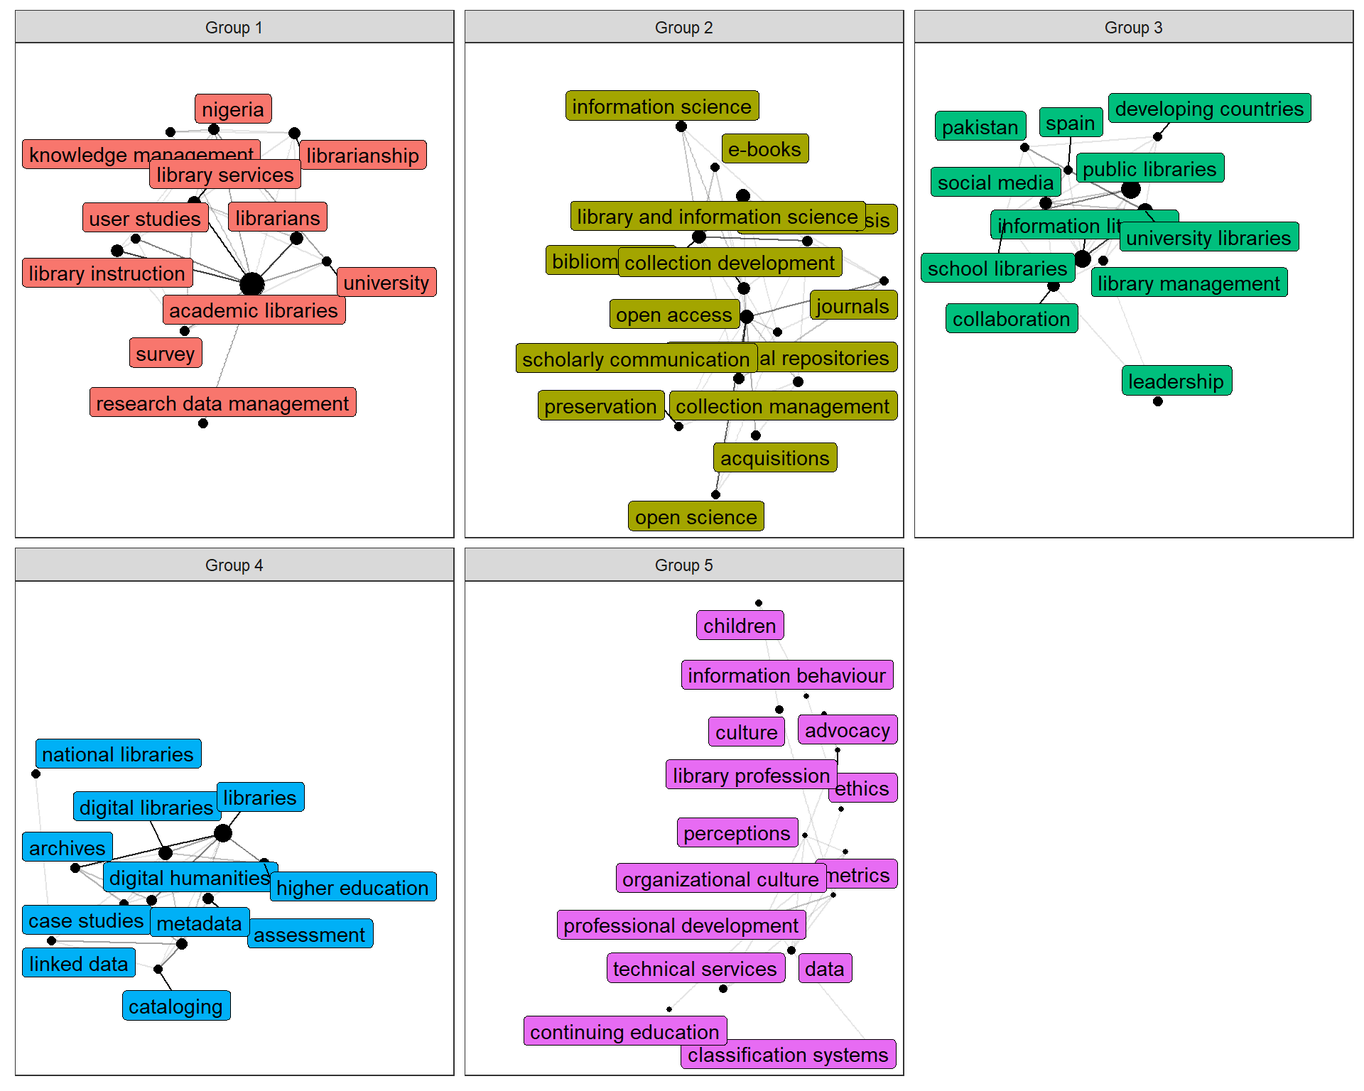
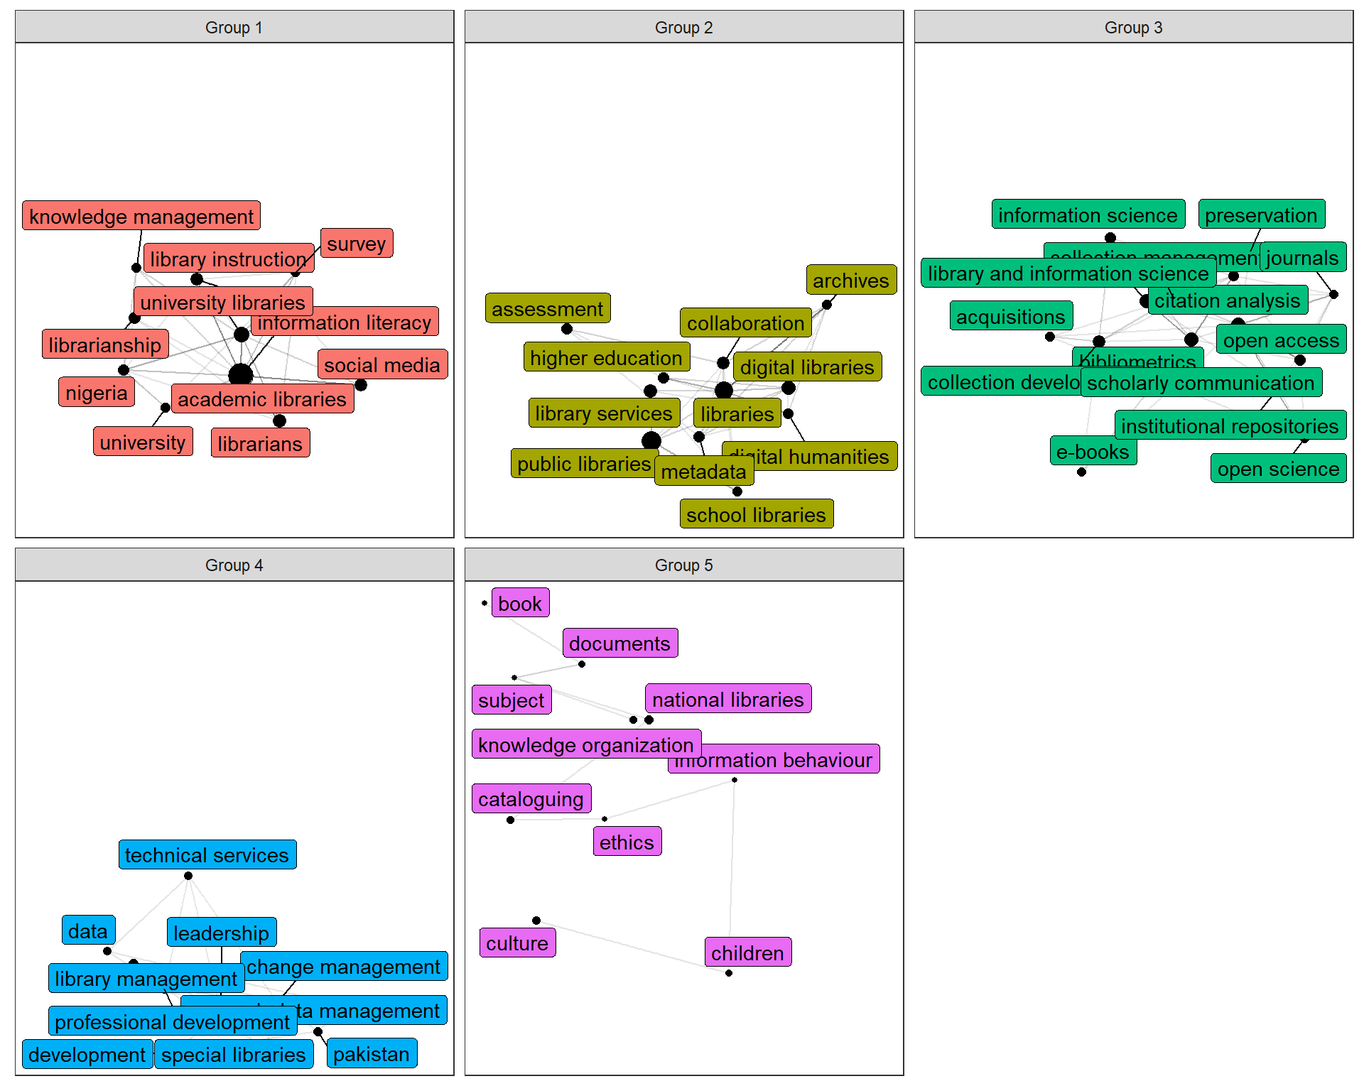
Add files via upload

Changed region(s): [[0.0, 0.0625, 1.0, 0.5], [0.3438, 0.5312, 0.6562, 1.0], [0.0, 0.6562, 0.3438, 1.0]]

diff --git a/docs/articles/akc_vignette.html b/docs/articles/akc_vignette.html
@@ -38,7 +38,7 @@
       </button>
       <span class="navbar-brand">
         <a class="navbar-link" href="../index.html">akc</a>
-        <span class="version label label-default" data-toggle="tooltip" data-placement="bottom" title="Released version">0.9.1</span>
+        <span class="version label label-default" data-toggle="tooltip" data-placement="bottom" title="Released version">0.9.2</span>
       </span>
     </div>
 
@@ -199,7 +199,7 @@ Logo of akc package.
 <a class="sourceLine" id="cb3-2" title="2"><span class="st">  </span><span class="kw"><a href="../reference/keyword_merge.html">keyword_merge</a></span>() -&gt;<span class="st"> </span>merged_data</a>
 <a class="sourceLine" id="cb3-3" title="3"></a>
 <a class="sourceLine" id="cb3-4" title="4">merged_data</a>
-<a class="sourceLine" id="cb3-5" title="5"><span class="co">#&gt; # A tibble: 5,378 x 2</span></a>
+<a class="sourceLine" id="cb3-5" title="5"><span class="co">#&gt; # A tibble: 5,372 x 2</span></a>
 <a class="sourceLine" id="cb3-6" title="6"><span class="co">#&gt;       id keyword                      </span></a>
 <a class="sourceLine" id="cb3-7" title="7"><span class="co">#&gt;    &lt;int&gt; &lt;chr&gt;                        </span></a>
 <a class="sourceLine" id="cb3-8" title="8"><span class="co">#&gt;  1  1163 10.7202/1063788ar            </span></a>
@@ -212,7 +212,7 @@ Logo of akc package.
 <a class="sourceLine" id="cb3-15" title="15"><span class="co">#&gt;  8    42 21st-century skills          </span></a>
 <a class="sourceLine" id="cb3-16" title="16"><span class="co">#&gt;  9  1114 21st century skills          </span></a>
 <a class="sourceLine" id="cb3-17" title="17"><span class="co">#&gt; 10  1051 24-hour opening              </span></a>
-<a class="sourceLine" id="cb3-18" title="18"><span class="co">#&gt; # … with 5,368 more rows</span></a></code></pre></div>
+<a class="sourceLine" id="cb3-18" title="18"><span class="co">#&gt; # … with 5,362 more rows</span></a></code></pre></div>
 </div>
 <div id="keyword-grouping" class="section level3">
 <h3 class="hasAnchor">
@@ -222,28 +222,28 @@ Logo of akc package.
 <a class="sourceLine" id="cb4-2" title="2"><span class="st">  </span><span class="kw"><a href="../reference/keyword_group.html">keyword_group</a></span>() -&gt;<span class="st"> </span>grouped_data</a>
 <a class="sourceLine" id="cb4-3" title="3"></a>
 <a class="sourceLine" id="cb4-4" title="4">grouped_data</a>
-<a class="sourceLine" id="cb4-5" title="5"><span class="co">#&gt; # A tbl_graph: 208 nodes and 1341 edges</span></a>
+<a class="sourceLine" id="cb4-5" title="5"><span class="co">#&gt; # A tbl_graph: 207 nodes and 1332 edges</span></a>
 <a class="sourceLine" id="cb4-6" title="6"><span class="co">#&gt; #</span></a>
 <a class="sourceLine" id="cb4-7" title="7"><span class="co">#&gt; # An undirected simple graph with 1 component</span></a>
 <a class="sourceLine" id="cb4-8" title="8"><span class="co">#&gt; #</span></a>
-<a class="sourceLine" id="cb4-9" title="9"><span class="co">#&gt; # Node Data: 208 x 3 (active)</span></a>
+<a class="sourceLine" id="cb4-9" title="9"><span class="co">#&gt; # Node Data: 207 x 3 (active)</span></a>
 <a class="sourceLine" id="cb4-10" title="10"><span class="co">#&gt;   name                     freq group</span></a>
 <a class="sourceLine" id="cb4-11" title="11"><span class="co">#&gt;   &lt;chr&gt;                   &lt;int&gt; &lt;int&gt;</span></a>
 <a class="sourceLine" id="cb4-12" title="12"><span class="co">#&gt; 1 academic librarians         7     1</span></a>
 <a class="sourceLine" id="cb4-13" title="13"><span class="co">#&gt; 2 academic libraries        145     1</span></a>
-<a class="sourceLine" id="cb4-14" title="14"><span class="co">#&gt; 3 acquisitions               12     2</span></a>
+<a class="sourceLine" id="cb4-14" title="14"><span class="co">#&gt; 3 acquisitions               12     3</span></a>
 <a class="sourceLine" id="cb4-15" title="15"><span class="co">#&gt; 4 africa                      6     1</span></a>
-<a class="sourceLine" id="cb4-16" title="16"><span class="co">#&gt; 5 altmetrics                  7     2</span></a>
+<a class="sourceLine" id="cb4-16" title="16"><span class="co">#&gt; 5 altmetrics                  7     3</span></a>
 <a class="sourceLine" id="cb4-17" title="17"><span class="co">#&gt; 6 artificial intelligence     4     1</span></a>
-<a class="sourceLine" id="cb4-18" title="18"><span class="co">#&gt; # … with 202 more rows</span></a>
+<a class="sourceLine" id="cb4-18" title="18"><span class="co">#&gt; # … with 201 more rows</span></a>
 <a class="sourceLine" id="cb4-19" title="19"><span class="co">#&gt; #</span></a>
-<a class="sourceLine" id="cb4-20" title="20"><span class="co">#&gt; # Edge Data: 1,341 x 3</span></a>
+<a class="sourceLine" id="cb4-20" title="20"><span class="co">#&gt; # Edge Data: 1,332 x 3</span></a>
 <a class="sourceLine" id="cb4-21" title="21"><span class="co">#&gt;    from    to     n</span></a>
 <a class="sourceLine" id="cb4-22" title="22"><span class="co">#&gt;   &lt;int&gt; &lt;int&gt; &lt;dbl&gt;</span></a>
 <a class="sourceLine" id="cb4-23" title="23"><span class="co">#&gt; 1     1     2     4</span></a>
 <a class="sourceLine" id="cb4-24" title="24"><span class="co">#&gt; 2     2     3     2</span></a>
 <a class="sourceLine" id="cb4-25" title="25"><span class="co">#&gt; 3     2    48     1</span></a>
-<a class="sourceLine" id="cb4-26" title="26"><span class="co">#&gt; # … with 1,338 more rows</span></a></code></pre></div>
+<a class="sourceLine" id="cb4-26" title="26"><span class="co">#&gt; # … with 1,329 more rows</span></a></code></pre></div>
 </div>
 <div id="output-the-table-of-results" class="section level3">
 <h3 class="hasAnchor">
@@ -254,11 +254,11 @@ Logo of akc package.
 <a class="sourceLine" id="cb5-3" title="3"><span class="co">#&gt; # A tibble: 5 x 2</span></a>
 <a class="sourceLine" id="cb5-4" title="4"><span class="co">#&gt;   Group `Keywords(TOP 10)`                                                      </span></a>
 <a class="sourceLine" id="cb5-5" title="5"><span class="co">#&gt;   &lt;int&gt; &lt;chr&gt;                                                                   </span></a>
-<a class="sourceLine" id="cb5-6" title="6"><span class="co">#&gt; 1     1 academic libraries (145); library services (27); librarians (25); libra…</span></a>
-<a class="sourceLine" id="cb5-7" title="7"><span class="co">#&gt; 2     2 open access (32); bibliometrics (31); library and information science (…</span></a>
-<a class="sourceLine" id="cb5-8" title="8"><span class="co">#&gt; 3     3 public libraries (74); information literacy (58); university libraries …</span></a>
-<a class="sourceLine" id="cb5-9" title="9"><span class="co">#&gt; 4     4 libraries (66); digital libraries (31); higher education (16); assessme…</span></a>
-<a class="sourceLine" id="cb5-10" title="10"><span class="co">#&gt; 5     5 professional development (9); data (7); culture (7); technical services…</span></a></code></pre></div>
+<a class="sourceLine" id="cb5-6" title="6"><span class="co">#&gt; 1     1 academic libraries (145); information literacy (58); university librari…</span></a>
+<a class="sourceLine" id="cb5-7" title="7"><span class="co">#&gt; 2     2 public libraries (74); libraries (65); digital libraries (31); library …</span></a>
+<a class="sourceLine" id="cb5-8" title="8"><span class="co">#&gt; 3     3 open access (32); bibliometrics (31); library and information science (…</span></a>
+<a class="sourceLine" id="cb5-9" title="9"><span class="co">#&gt; 4     4 leadership (12); library management (12); research data management (12)…</span></a>
+<a class="sourceLine" id="cb5-10" title="10"><span class="co">#&gt; 5     5 national libraries (10); culture (7); cataloguing (6); knowledge organi…</span></a></code></pre></div>
 </div>
 <div id="visualize-the-results" class="section level3">
 <h3 class="hasAnchor">

diff --git a/docs/reference/keyword_merge.html b/docs/reference/keyword_merge.html
@@ -78,7 +78,7 @@ recieves a tidy table (data.frame) with document ID and keyword waiting to be me
       </button>
       <span class="navbar-brand">
         <a class="navbar-link" href="../index.html">akc</a>
-        <span class="version label label-default" data-toggle="tooltip" data-placement="bottom" title="Released version">0.9.1</span>
+        <span class="version label label-default" data-toggle="tooltip" data-placement="bottom" title="Released version">0.9.2</span>
       </span>
     </div>
 
@@ -155,8 +155,9 @@ recieves a tidy table (data.frame) with document ID and keyword waiting to be me
     </tr>
     <tr>
       <th>reduce_form</th>
-      <td><p>Should the merge terms have the same stem("stem") or lemma("lemma")?
-Default uses "lemma".</p></td>
+      <td><p>Merge keywords with the same stem("stem") or lemma("lemma"). See details.
+Default uses "lemma". Another advanced option is "partof". If a non-unigram (A) is part (subset) of
+another non-unigram (B), then the longer one(B) would be replaced by the longer one(A).</p></td>
     </tr>
     </table>
 
@@ -171,6 +172,14 @@ every keyword using <code>stem_strings</code> or <code>lemmatize_strings</code> 
 then find the most frequent form (if more than 1,randomly select one)
 for each stem or lemma. Last, every keyword
 would be replaced by the most frequent keyword which share the same stem or lemma with it.</p>
+<p>When the `reduce_form` is set to "partof", then for non-unigrams in the same document,
+if one non-unigram is the subset of another, then they would be merged into the shorter one,
+which is considered to be more general (e.g. "time series" and "time series analysis" would be
+merged into "time series" if they co-occur in the same document). This could reduce the redundant
+information. This is only applied to multi-word phrases, because using it for one word would
+oversimplify the token and cause information loss (therefore, "time series" and "time" would not be
+merged into "time"). This is an advanced option that should be used with caution (A trade-off between
+information generalization and detailed information retention).</p>
     <h2 class="hasAnchor" id="see-also"><a class="anchor" href="#see-also"></a>See also</h2>
 
     <div class='dont-index'><p><code><a href='https://rdrr.io/pkg/textstem/man/stem_strings.html'>stem_strings</a></code>, <code><a href='https://rdrr.io/pkg/textstem/man/lemmatize_strings.html'>lemmatize_strings</a></code></p></div>
@@ -181,7 +190,7 @@ would be replaced by the most frequent keyword which share the same stem or lemm
 <span class='co'># \donttest{</span>
 <span class='no'>bibli_data_table</span> <span class='kw'>%&gt;%</span>
   <span class='fu'><a href='keyword_clean.html'>keyword_clean</a></span>(<span class='kw'>lemmatize</span> <span class='kw'>=</span> <span class='fl'>FALSE</span>) <span class='kw'>%&gt;%</span>
-  <span class='fu'>keyword_merge</span>(<span class='kw'>reduce_form</span> <span class='kw'>=</span> <span class='st'>"stem"</span>)</div><div class='output co'>#&gt; <span style='color: #555555;'># A tibble: 5,378 x 2</span><span>
+  <span class='fu'>keyword_merge</span>(<span class='kw'>reduce_form</span> <span class='kw'>=</span> <span class='st'>"stem"</span>)</div><div class='output co'>#&gt; <span style='color: #555555;'># A tibble: 5,372 x 2</span><span>
 #&gt;       id keyword                      
 #&gt;    </span><span style='color: #555555;font-style: italic;'>&lt;int&gt;</span><span> </span><span style='color: #555555;font-style: italic;'>&lt;chr&gt;</span><span>                        
 #&gt; </span><span style='color: #555555;'> 1</span><span>  </span><span style='text-decoration: underline;'>1</span><span>163 10.7202/1063788ar            
@@ -194,10 +203,10 @@ would be replaced by the most frequent keyword which share the same stem or lemm
 #&gt; </span><span style='color: #555555;'> 8</span><span>  </span><span style='text-decoration: underline;'>1</span><span>051 24-hour opening              
 #&gt; </span><span style='color: #555555;'> 9</span><span>   662 3d environment               
 #&gt; </span><span style='color: #555555;'>10</span><span>  </span><span style='text-decoration: underline;'>1</span><span>252 3d reconstruction            
-#&gt; </span><span style='color: #555555;'># … with 5,368 more rows</span><span></div><div class='input'>
+#&gt; </span><span style='color: #555555;'># … with 5,362 more rows</span><span></div><div class='input'>
 <span class='no'>bibli_data_table</span> <span class='kw'>%&gt;%</span>
   <span class='fu'><a href='keyword_clean.html'>keyword_clean</a></span>(<span class='kw'>lemmatize</span> <span class='kw'>=</span> <span class='fl'>FALSE</span>) <span class='kw'>%&gt;%</span>
-  <span class='fu'>keyword_merge</span>(<span class='kw'>reduce_form</span> <span class='kw'>=</span> <span class='st'>"lemma"</span>)</div><div class='output co'>#&gt; </span><span style='color: #555555;'># A tibble: 5,378 x 2</span><span>
+  <span class='fu'>keyword_merge</span>(<span class='kw'>reduce_form</span> <span class='kw'>=</span> <span class='st'>"lemma"</span>)</div><div class='output co'>#&gt; </span><span style='color: #555555;'># A tibble: 5,372 x 2</span><span>
 #&gt;       id keyword                      
 #&gt;    </span><span style='color: #555555;font-style: italic;'>&lt;int&gt;</span><span> </span><span style='color: #555555;font-style: italic;'>&lt;chr&gt;</span><span>                        
 #&gt; </span><span style='color: #555555;'> 1</span><span>  </span><span style='text-decoration: underline;'>1</span><span>163 10.7202/1063788ar            
@@ -210,7 +219,7 @@ would be replaced by the most frequent keyword which share the same stem or lemm
 #&gt; </span><span style='color: #555555;'> 8</span><span>    42 21st-century skills          
 #&gt; </span><span style='color: #555555;'> 9</span><span>  </span><span style='text-decoration: underline;'>1</span><span>114 21st century skills          
 #&gt; </span><span style='color: #555555;'>10</span><span>  </span><span style='text-decoration: underline;'>1</span><span>051 24-hour opening              
-#&gt; </span><span style='color: #555555;'># … with 5,368 more rows</span><span></div><div class='input'># }
+#&gt; </span><span style='color: #555555;'># … with 5,362 more rows</span><span></div><div class='input'># }
 
 </div></span></pre>
   </div>

diff --git a/docs/index.html b/docs/index.html
@@ -38,7 +38,7 @@
       </button>
       <span class="navbar-brand">
         <a class="navbar-link" href="index.html">akc</a>
-        <span class="version label label-default" data-toggle="tooltip" data-placement="bottom" title="Released version">0.9.1</span>
+        <span class="version label label-default" data-toggle="tooltip" data-placement="bottom" title="Released version">0.9.2</span>
       </span>
     </div>
 
@@ -98,7 +98,10 @@
 <div id="installation" class="section level2">
 <h2 class="hasAnchor">
 <a href="#installation" class="anchor"></a>Installation</h2>
-<div class="sourceCode" id="cb1"><pre class="sourceCode r"><code class="sourceCode r"><a class="sourceLine" id="cb1-1" title="1">devtools<span class="op">::</span><span class="kw"><a href="https://rdrr.io/pkg/devtools/man/remote-reexports.html">install_github</a></span>(<span class="st">"hope-data-science/akc"</span>)</a></code></pre></div>
+<div class="sourceCode" id="cb1"><pre class="sourceCode r"><code class="sourceCode r"><a class="sourceLine" id="cb1-1" title="1"><span class="kw"><a href="https://rdrr.io/r/utils/install.packages.html">install.packages</a></span>(<span class="st">"akc"</span>)</a>
+<a class="sourceLine" id="cb1-2" title="2"><span class="co"># or</span></a>
+<a class="sourceLine" id="cb1-3" title="3">devtools<span class="op">::</span><span class="kw"><a href="https://rdrr.io/pkg/devtools/man/remote-reexports.html">install_github</a></span>(<span class="st">"hope-data-science/akc"</span>)</a></code></pre></div>
+<p>Note: As <code>akc</code> utilizes many state-of-the-art functions from various excellent R packages, it might take a while to install the whole suite, especially when you are still not a heavy R user (then lots of packages might not be installed in advance). Nevertheless, the patience pays off. The well-organized framework will save you much more time afterward.</p>
 </div>
 <div id="further-information" class="section level2">
 <h2 class="hasAnchor">
@@ -112,6 +115,8 @@
     <div class="links">
 <h2>Links</h2>
 <ul class="list-unstyled">
+<li>Download from CRAN at <br><a href="https://cloud.r-project.org/package=akc">https://cloud.r-project.org/package=akc</a>
+</li>
 <li>Browse source code at <br><a href="https://github.com/hope-data-science/akc">https://github.com/hope-data-science/akc</a>
 </li>
 </ul>

diff --git a/docs/reference/keyword_vis.html b/docs/reference/keyword_vis.html
@@ -77,7 +77,7 @@
       </button>
       <span class="navbar-brand">
         <a class="navbar-link" href="../index.html">akc</a>
-        <span class="version label label-default" data-toggle="tooltip" data-placement="bottom" title="Released version">0.9.1</span>
+        <span class="version label label-default" data-toggle="tooltip" data-placement="bottom" title="Released version">0.9.2</span>
       </span>
     </div>
 
@@ -183,7 +183,7 @@ while the alpha of edges is proportional to the co-occurrence relationship betwe
 <span class='no'>bibli_data_table</span> <span class='kw'>%&gt;%</span>
   <span class='fu'><a href='keyword_clean.html'>keyword_clean</a></span>(<span class='kw'>id</span> <span class='kw'>=</span> <span class='st'>"id"</span>,<span class='kw'>keyword</span> <span class='kw'>=</span> <span class='st'>"keyword"</span>) <span class='kw'>%&gt;%</span>
   <span class='fu'><a href='keyword_group.html'>keyword_group</a></span>(<span class='kw'>id</span> <span class='kw'>=</span> <span class='st'>"id"</span>,<span class='kw'>keyword</span> <span class='kw'>=</span> <span class='st'>"keyword"</span>) <span class='kw'>%&gt;%</span>
-  <span class='fu'>keyword_vis</span>() + <span class='kw pkg'>ggplot2</span><span class='kw ns'>::</span><span class='fu'><a href='https://rdrr.io/pkg/ggplot2/man/guides.html'>guides</a></span>(<span class='kw'>fill</span> <span class='kw'>=</span> <span class='fl'>FALSE</span>)</div><div class='img'><img src='keyword_vis-3.png' alt='' width='700' height='433' /></div><div class='input'># }
+  <span class='fu'>keyword_vis</span>() + <span class='kw pkg'>ggplot2</span><span class='kw ns'>::</span><span class='fu'><a href='https://ggplot2.tidyverse.org/reference/guides.html'>guides</a></span>(<span class='kw'>fill</span> <span class='kw'>=</span> <span class='fl'>FALSE</span>)</div><div class='img'><img src='keyword_vis-3.png' alt='' width='700' height='433' /></div><div class='input'># }
 </div></pre>
   </div>
   <div class="col-md-3 hidden-xs hidden-sm" id="sidebar">

diff --git a/docs/reference/keyword_extract.html b/docs/reference/keyword_extract.html
@@ -81,7 +81,7 @@ the function would return all the ngram tokens without filtering (not recommende
       </button>
       <span class="navbar-brand">
         <a class="navbar-link" href="../index.html">akc</a>
-        <span class="version label label-default" data-toggle="tooltip" data-placement="bottom" title="Released version">0.9.1</span>
+        <span class="version label label-default" data-toggle="tooltip" data-placement="bottom" title="Released version">0.9.2</span>
       </span>
     </div>
 
@@ -203,7 +203,7 @@ some test first. Nonetheless, it has been optimized by data.table codes already 
 #&gt; <span class='message'>    intersect, setdiff, setequal, union</span></div><div class='input'>
   <span class='no'>bibli_data_table</span> <span class='kw'>%&gt;%</span>
     <span class='fu'><a href='keyword_clean.html'>keyword_clean</a></span>(<span class='kw'>id</span> <span class='kw'>=</span> <span class='st'>"id"</span>,<span class='kw'>keyword</span> <span class='kw'>=</span> <span class='st'>"keyword"</span>) <span class='kw'>%&gt;%</span>
-    <span class='fu'><a href='https://rdrr.io/pkg/dplyr/man/pull.html'>pull</a></span>(<span class='no'>keyword</span>) <span class='kw'>%&gt;%</span>
+    <span class='fu'><a href='https://dplyr.tidyverse.org/reference/pull.html'>pull</a></span>(<span class='no'>keyword</span>) <span class='kw'>%&gt;%</span>
     <span class='no'>make_dict</span> <span class='kw'>-&gt;</span> <span class='no'>my_dict</span>
 
  <span class='co'># \donttest{</span>

diff --git a/docs/reference/make_dict.html b/docs/reference/make_dict.html
@@ -77,7 +77,7 @@
       </button>
       <span class="navbar-brand">
         <a class="navbar-link" href="../index.html">akc</a>
-        <span class="version label label-default" data-toggle="tooltip" data-placement="bottom" title="Released version">0.9.1</span>
+        <span class="version label label-default" data-toggle="tooltip" data-placement="bottom" title="Released version">0.9.2</span>
       </span>
     </div>
 
@@ -161,7 +161,7 @@
 
 <span class='no'>bibli_data_table</span> <span class='kw'>%&gt;%</span>
   <span class='fu'><a href='keyword_clean.html'>keyword_clean</a></span>() <span class='kw'>%&gt;%</span>
-  <span class='fu'><a href='https://rdrr.io/pkg/dplyr/man/pull.html'>pull</a></span>(<span class='no'>keyword</span>) <span class='kw'>%&gt;%</span>
+  <span class='fu'><a href='https://dplyr.tidyverse.org/reference/pull.html'>pull</a></span>(<span class='no'>keyword</span>) <span class='kw'>%&gt;%</span>
   <span class='fu'>make_dict</span>() <span class='kw'>-&gt;</span> <span class='no'>dict</span></div></pre>
   </div>
   <div class="col-md-3 hidden-xs hidden-sm" id="sidebar">

diff --git a/docs/reference/akc-package.html b/docs/reference/akc-package.html
@@ -78,7 +78,7 @@ A tidy framework for automatic knowledge classification and visualization. Curre
       </button>
       <span class="navbar-brand">
         <a class="navbar-link" href="../index.html">akc</a>
-        <span class="version label label-default" data-toggle="tooltip" data-placement="bottom" title="Released version">0.9.1</span>
+        <span class="version label label-default" data-toggle="tooltip" data-placement="bottom" title="Released version">0.9.2</span>
       </span>
     </div>
 

diff --git a/docs/reference/keyword_group.html b/docs/reference/keyword_group.html
@@ -79,7 +79,7 @@ the frequency and classification group number of nodes representing keywords." /
       </button>
       <span class="navbar-brand">
         <a class="navbar-link" href="../index.html">akc</a>
-        <span class="version label label-default" data-toggle="tooltip" data-placement="bottom" title="Released version">0.9.1</span>
+        <span class="version label label-default" data-toggle="tooltip" data-placement="bottom" title="Released version">0.9.2</span>
       </span>
     </div>
 

diff --git a/docs/reference/bibli_data_table.html b/docs/reference/bibli_data_table.html
@@ -79,7 +79,7 @@ Database:Clarivate Analytics Web of Science" />
       </button>
       <span class="navbar-brand">
         <a class="navbar-link" href="../index.html">akc</a>
-        <span class="version label label-default" data-toggle="tooltip" data-placement="bottom" title="Released version">0.9.1</span>
+        <span class="version label label-default" data-toggle="tooltip" data-placement="bottom" title="Released version">0.9.2</span>
       </span>
     </div>
 

diff --git a/docs/reference/reexports.html b/docs/reference/reexports.html
@@ -84,7 +84,7 @@ below to see their documentation.
       </button>
       <span class="navbar-brand">
         <a class="navbar-link" href="../index.html">akc</a>
-        <span class="version label label-default" data-toggle="tooltip" data-placement="bottom" title="Released version">0.9.1</span>
+        <span class="version label label-default" data-toggle="tooltip" data-placement="bottom" title="Released version">0.9.2</span>
       </span>
     </div>
 

diff --git a/docs/reference/keyword_clean.html b/docs/reference/keyword_clean.html
@@ -78,7 +78,7 @@ document ID and keywords." />
       </button>
       <span class="navbar-brand">
         <a class="navbar-link" href="../index.html">akc</a>
-        <span class="version label label-default" data-toggle="tooltip" data-placement="bottom" title="Released version">0.9.1</span>
+        <span class="version label label-default" data-toggle="tooltip" data-placement="bottom" title="Released version">0.9.2</span>
       </span>
     </div>
 

diff --git a/docs/articles/index.html b/docs/articles/index.html
@@ -76,7 +76,7 @@
       </button>
       <span class="navbar-brand">
         <a class="navbar-link" href="../index.html">akc</a>
-        <span class="version label label-default" data-toggle="tooltip" data-placement="bottom" title="Released version">0.9.1</span>
+        <span class="version label label-default" data-toggle="tooltip" data-placement="bottom" title="Released version">0.9.2</span>
       </span>
     </div>
 
